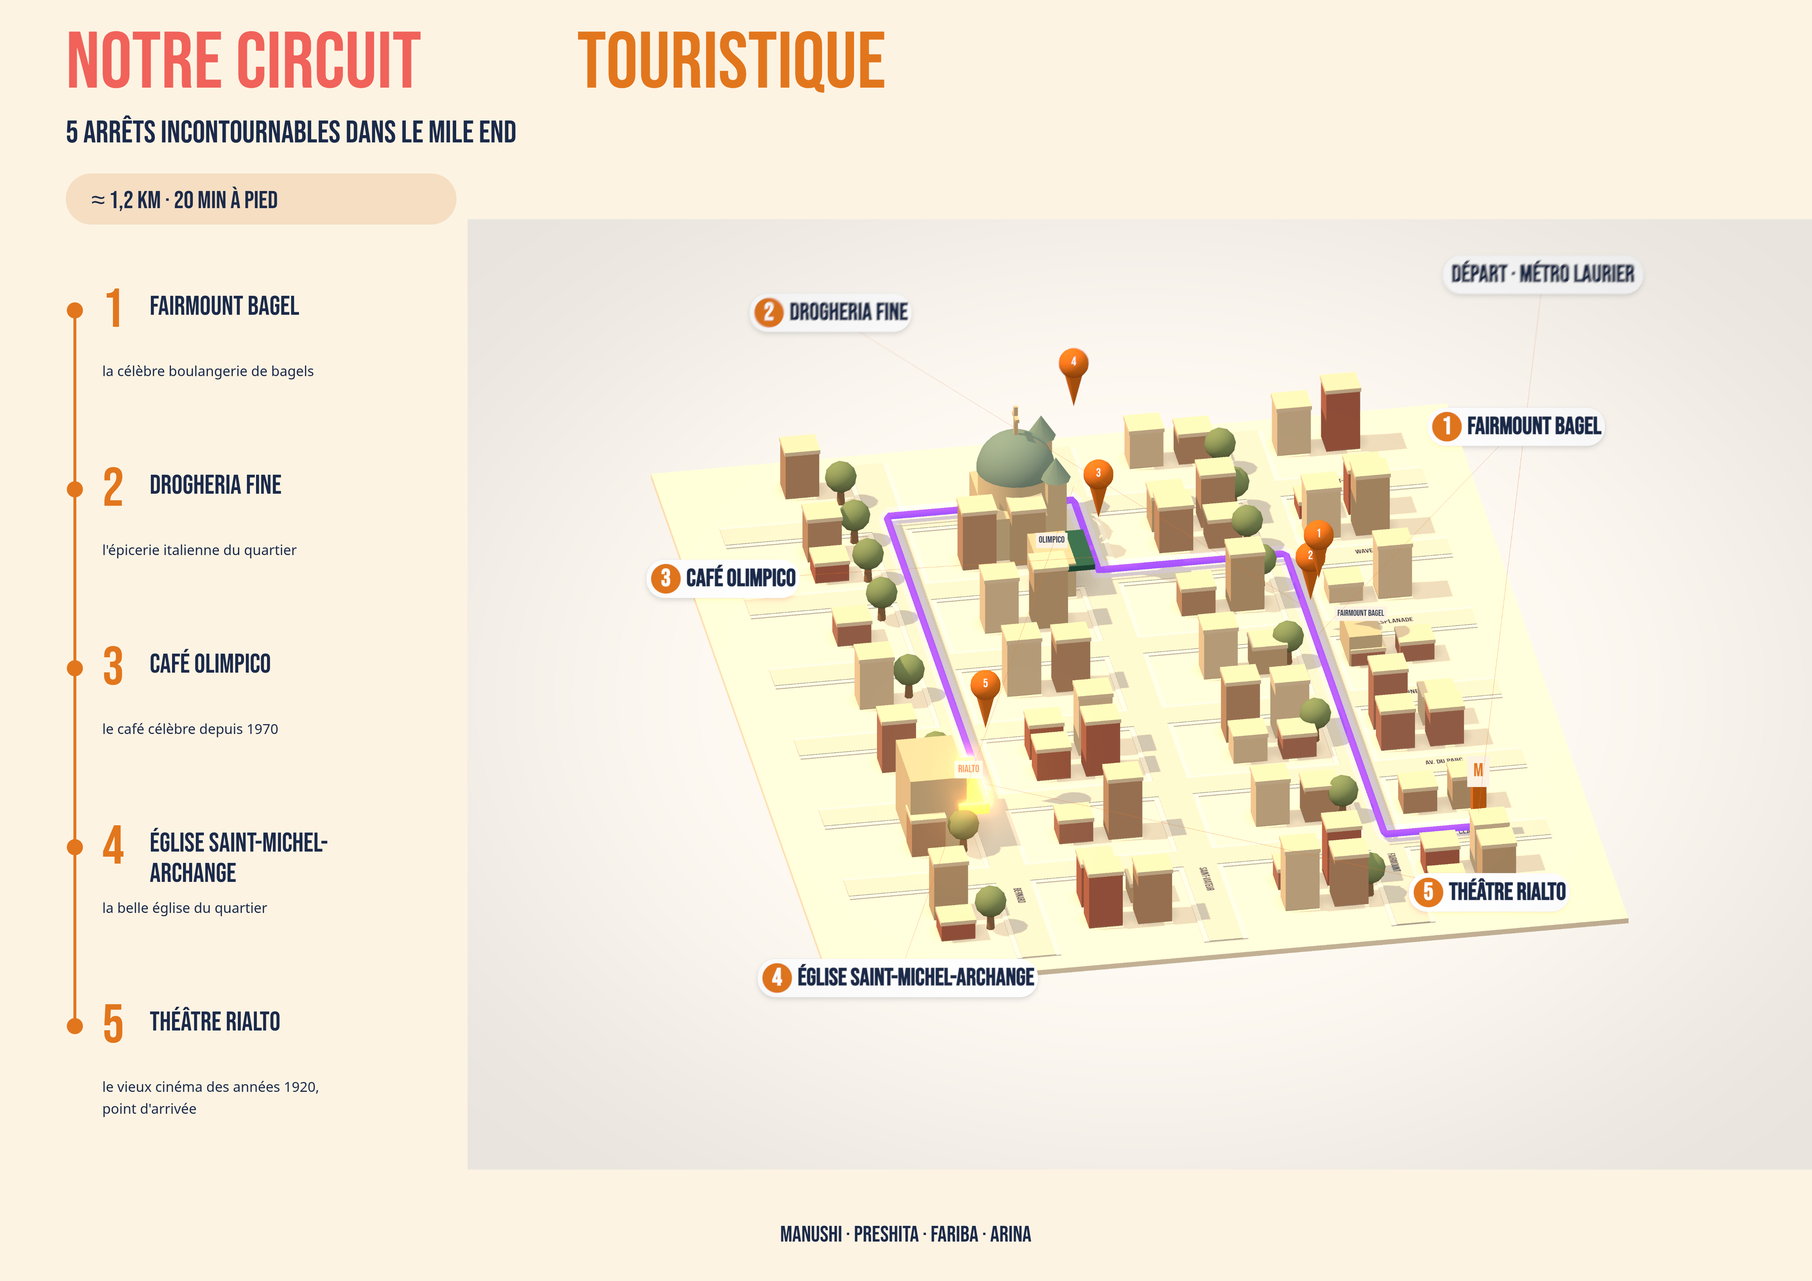
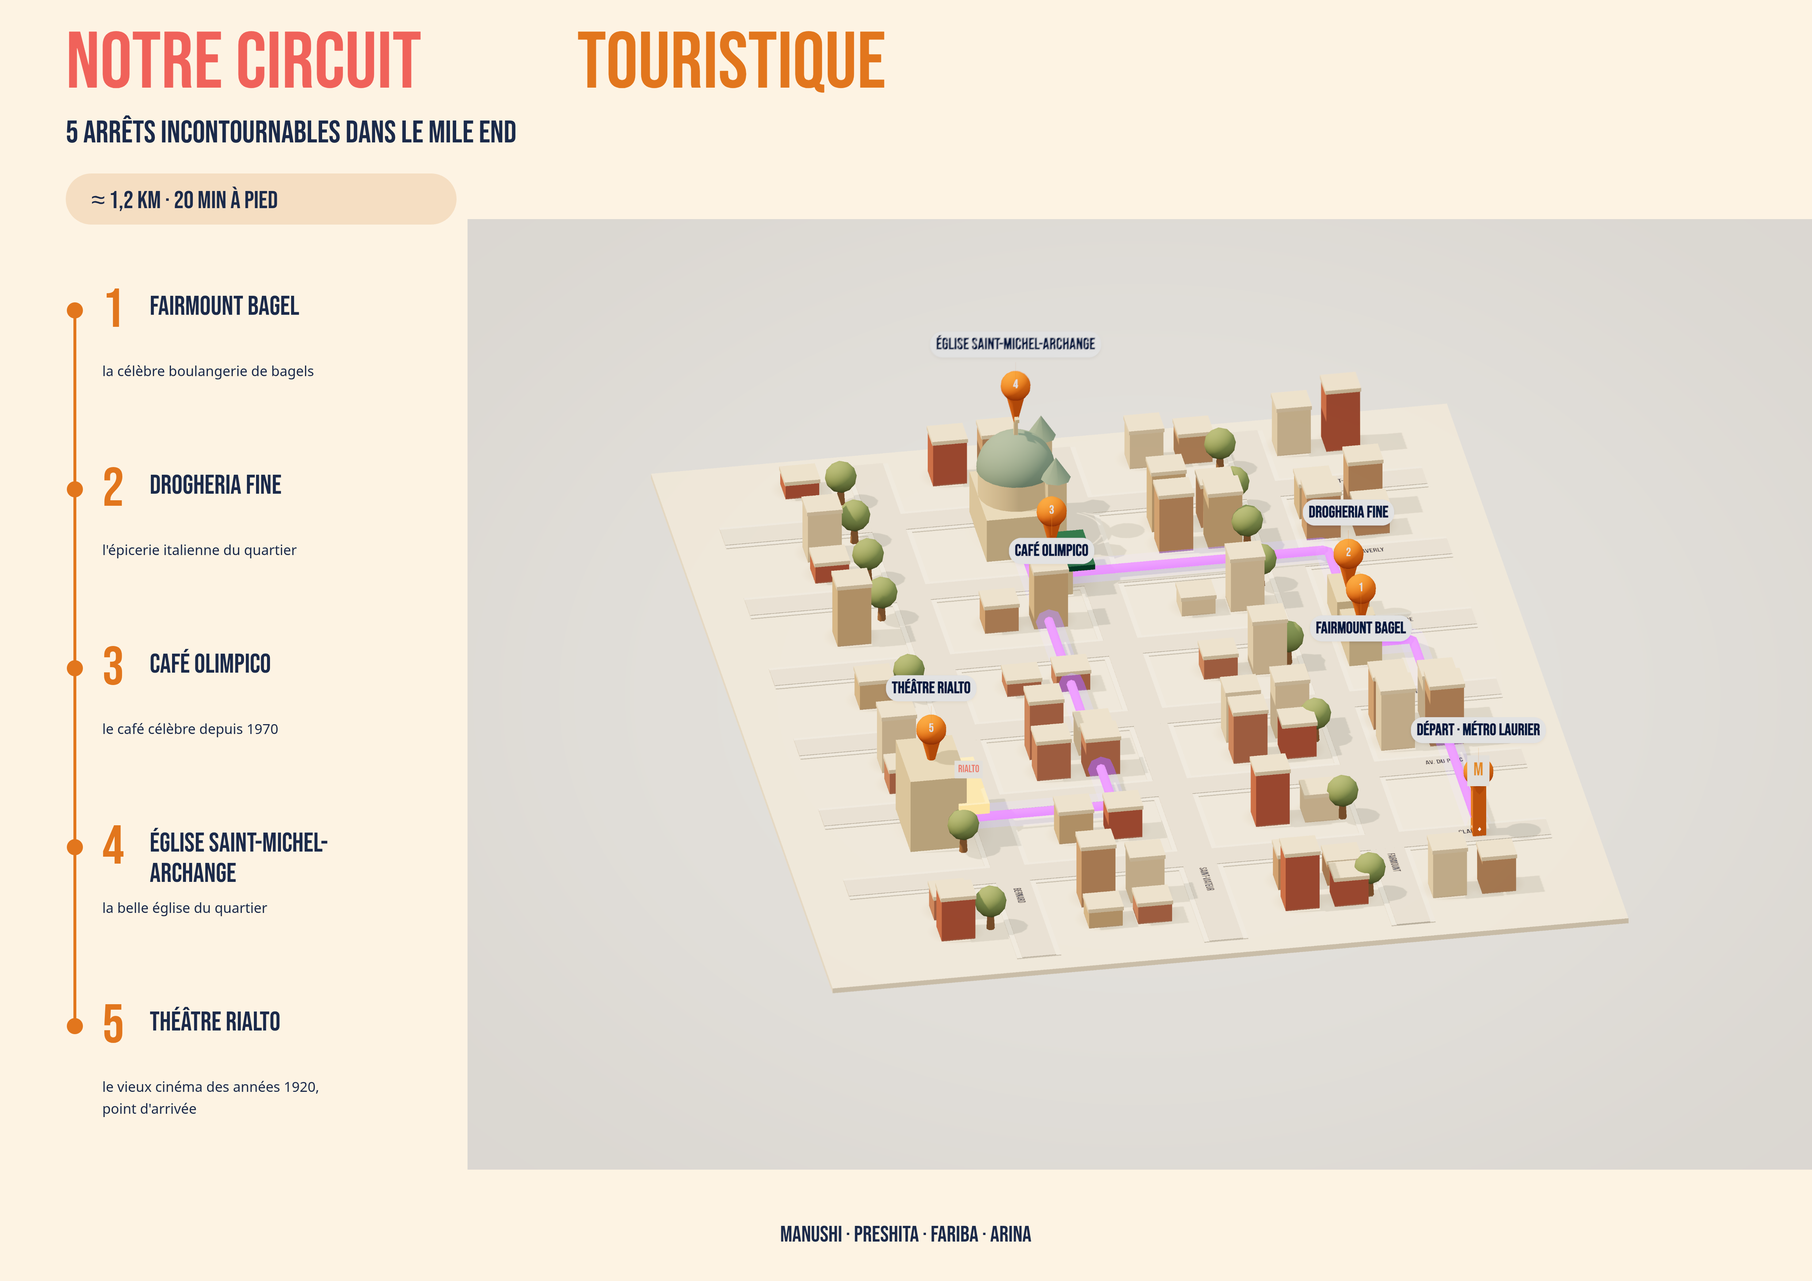
Mile End v3: snap reels layout, 3D food, 3D route map, team photo (Codex)

Changed region(s): [[0.3124, 0.2175, 0.9373, 0.87], [0.7811, 0.1864, 0.9061, 0.2486]]

diff --git a/map3d.js b/map3d.js
@@ -7,12 +7,24 @@ import { UnrealBloomPass } from 'https://cdn.jsdelivr.net/npm/three@0.170.0/exam
 import { ShaderPass } from 'https://cdn.jsdelivr.net/npm/three@0.170.0/examples/jsm/postprocessing/ShaderPass.js';
 import { OutputPass } from 'https://cdn.jsdelivr.net/npm/three@0.170.0/examples/jsm/postprocessing/OutputPass.js';
 
+// Route order and district-local landmark positions are shared by every representation.
+export const STOPS = [
+  { id: 'metro', number: 'M', name: 'DÉPART · MÉTRO LAURIER', position: [7, -6], pinHeight: 1.5 },
+  { id: 'fairmount', number: '1', name: 'FAIRMOUNT BAGEL', position: [-1, -4.9], pinHeight: 1.5, description: 'la célèbre boulangerie de bagels' },
+  { id: 'drogheria', number: '2', name: 'DROGHERIA FINE', position: [-2.5, -4.9], pinHeight: 1.5, description: "l'épicerie italienne du quartier" },
+  { id: 'olimpico', number: '3', name: 'CAFÉ OLIMPICO', position: [-5, 1], pinHeight: 1.7, description: 'le café célèbre depuis 1970' },
+  { id: 'church', number: '4', name: 'ÉGLISE SAINT-MICHEL-ARCHANGE', position: [-7.1, 1.4], pinHeight: 3.6, description: 'la belle église du quartier' },
+  { id: 'rialto', number: '5', name: 'THÉÂTRE RIALTO', position: [4.8, 5.3], pinHeight: 2.4, description: 'le vieux cinéma des années 1920,', extra: "point d'arrivée" }
+];
+
 export function mountMap3D(container, { interactive = true, width = container.clientWidth || 640, height = 440, pixelRatio = 1, preserveDrawingBuffer = false } = {}) {
   const renderer = new THREE.WebGLRenderer({ antialias: true, preserveDrawingBuffer });
   renderer.setPixelRatio(interactive ? Math.min(pixelRatio, 2) : 1);
   renderer.shadowMap.enabled = true; renderer.shadowMap.type = THREE.PCFSoftShadowMap;
   renderer.setSize(width, height);
   renderer.setClearColor('#fdf3e3');
+  renderer.toneMapping = THREE.ACESFilmicToneMapping;
+  renderer.toneMappingExposure = 1;
   renderer.domElement.setAttribute('role', 'img');
   renderer.domElement.setAttribute('aria-label', 'Circuit schématique du Mile End : station Laurier, Fairmount Bagel, Drogheria Fine, Café Olimpico, église Saint-Michel-Archange et Théâtre Rialto.');
   container.append(renderer.domElement);
@@ -25,10 +37,22 @@ export function mountMap3D(container, { interactive = true, width = container.cl
   sunlight.castShadow = true; sunlight.shadow.mapSize.setScalar(interactive ? 1024 : 4096);
   Object.assign(sunlight.shadow.camera, { left: -18, right: 18, top: 18, bottom: -18, near: .1, far: 70 });
   sunlight.shadow.bias = -.0005; sunlight.shadow.normalBias = .03;
+  // Only route objects are on layer 1; cream surfaces, pins and text never enter bloom.
+  const bloomComposer = new EffectComposer(renderer);
+  bloomComposer.renderToScreen = false;
+  const bloomScene = new RenderPass(scene, camera);
+  bloomScene.clearColor = new THREE.Color(0x000000);
+  bloomScene.clearAlpha = 0;
+  bloomComposer.addPass(bloomScene);
+  const bloom = new UnrealBloomPass(new THREE.Vector2(width, height), .65, .4, .9);
+  bloomComposer.addPass(bloom);
   const composer = new EffectComposer(renderer);
   composer.addPass(new RenderPass(scene, camera));
-  const bloom = new UnrealBloomPass(new THREE.Vector2(width, height), .85, .8, 1.5);
-  composer.addPass(bloom);
+  composer.addPass(new ShaderPass({
+    uniforms: { tDiffuse: { value: null }, bloomTexture: { value: bloomComposer.renderTarget2.texture } },
+    vertexShader: `varying vec2 vUv; void main(){vUv=uv;gl_Position=projectionMatrix*modelViewMatrix*vec4(position,1.);}`,
+    fragmentShader: `uniform sampler2D tDiffuse; uniform sampler2D bloomTexture; varying vec2 vUv; void main(){vec4 base=texture2D(tDiffuse,vUv);gl_FragColor=vec4(base.rgb+texture2D(bloomTexture,vUv).rgb,base.a);}`
+  }));
   const finish = new ShaderPass({ uniforms: { tDiffuse: { value: null }, texel: { value: new THREE.Vector2(1 / width, 1 / height) } }, vertexShader: `varying vec2 vUv; void main(){vUv=uv;gl_Position=projectionMatrix*modelViewMatrix*vec4(position,1.);}`, fragmentShader: `uniform sampler2D tDiffuse; uniform vec2 texel; varying vec2 vUv; void main(){float edge=smoothstep(.24,.5,abs(vUv.y-.5));vec4 c=texture2D(tDiffuse,vUv)*.4;for(int i=1;i<=3;i++){vec2 d=texel*float(i)*edge*2.;c+=(texture2D(tDiffuse,vUv+d)+texture2D(tDiffuse,vUv-d))*.1;}float vignette=1.-.18*smoothstep(.25,.7,length(vUv-.5));gl_FragColor=vec4(c.rgb*vignette,c.a);}` });
   composer.addPass(finish); composer.addPass(new OutputPass());
   if (interactive) bloom.setSize(width * renderer.getPixelRatio() / 2, height * renderer.getPixelRatio() / 2);
@@ -68,40 +92,53 @@ export function mountMap3D(container, { interactive = true, width = container.cl
   for (let x = -9.7; x < 10; x += .9) {
     for (let z = -6; z < 6.5; z += 1.05) {
       if (crosses.some(v => Math.abs(x - v) < .8) || avenues.some(v => Math.abs(z - v) < .85)) continue;
-      // Reserve space for the church and the theatre.
-      if ((Math.abs(x + 8) < 1.8 && Math.abs(z - 1.4) < 1.6) || (Math.abs(x - 4) < 1.6 && Math.abs(z - 5.4) < 1.3)) continue;
+      if (STOPS.some(({position: [sx, sz]}) => Math.abs(x - sx) < 1.5 && Math.abs(z - sz) < 1.4)) continue;
       const h = .3 + random() * 1.1;
       box(.65, h, .72, bricks[Math.floor(random() * bricks.length)], x, h / 2, z);
       box(.69, .09, .76, mat('#efddc3'), x, h + .045, z);
     }
   }
-  // Byzantine church: drum, hemisphere and twin towers.
-  box(2.1, 1, 1.6, stone, -7.1, .5, 1.4);
-  mesh(new THREE.CylinderGeometry(.8, .8, .6, 24), stone, -7.1, 1.3, 1.4);
-  mesh(new THREE.SphereGeometry(.83, 24, 12, 0, Math.PI * 2, 0, Math.PI / 2), dome, -7.1, 1.6, 1.4);
-  [-8, -6.2].forEach(x => {
-    box(.4, 1.8, .4, stone, x, .9, .7);
-    mesh(new THREE.ConeGeometry(.32, .5, 8), dome, x, 2.05, .7);
+  // Build landmark geometry relative to its stop, never a second world position.
+  STOPS.forEach(stop => {
+    const first = district.children.length;
+    if (stop.id === 'church') {
+      box(2.1, 1, 1.6, stone, 0, .5, 0);
+      mesh(new THREE.CylinderGeometry(.8, .8, .6, 24), stone, 0, 1.3, 0);
+      mesh(new THREE.SphereGeometry(.83, 24, 12, 0, Math.PI * 2, 0, Math.PI / 2), dome, 0, 1.6, 0);
+      [-.9, .9].forEach(x => {
+        box(.4, 1.8, .4, stone, x, .9, -.7);
+        mesh(new THREE.ConeGeometry(.32, .5, 8), dome, x, 2.05, -.7);
+      });
+      box(.08, .7, .08, stone, 0, 2.75, 0); box(.42, .08, .08, stone, 0, 2.85, 0);
+    } else if (stop.id === 'rialto') {
+      box(1.8, 1.7, 1.2, stone, 0, .85, 0);
+      box(2, .24, .65, new THREE.MeshStandardMaterial({color:'#ffcf7c',emissive:'#ff982c',emissiveIntensity:2}), 0, .95, -.75);
+      label('RIALTO', 0, 1.35, -.8, .37, '#f0625a', true);
+    } else if (stop.id === 'metro') {
+      box(.28, 1.3, .28, orange, 0, .65, 0);
+    } else {
+      box(1.2, .7, .7, stone, 0, .35, 0);
+      if (stop.id === 'olimpico') box(1.5, .12, .6, mat('#28614f'), 0, .7, -.5);
+    }
+    district.children.slice(first).forEach(object => {
+      object.position.x += stop.position[0]; object.position.z += stop.position[1];
+    });
   });
-  box(.08, .7, .08, stone, -7.1, 2.75, 1.4); box(.42, .08, .08, stone, -7.1, 2.85, 1.4);
-  box(1.8, 1.7, 1.2, stone, 4.8, .85, 5.3);
-  box(2, .24, .65, new THREE.MeshStandardMaterial({color:'#ffcf7c',emissive:'#ff982c',emissiveIntensity:2}), 4.8, .95, 4.55);
-  label('RIALTO', 4.8, 1.35, 4.5, .37, '#f0625a', true);
-  const points = [[7,-6],[7,-4],[-1,-4],[-2,-4],[-5,-4],[-5,0],[-8,0],[-8,4],[4,4]];
+  // Each leg reaches the next landmark, with an orthogonal bend derived from its endpoints.
+  const points = [STOPS[0].position];
+  STOPS.slice(1).forEach((stop, i) => {
+    const previous = STOPS[i].position;
+    if (previous[0] !== stop.position[0] && previous[1] !== stop.position[1]) points.push([stop.position[0], previous[1]]);
+    points.push(stop.position);
+  });
   const curve = new THREE.CurvePath();
   points.slice(1).forEach(([x,z], i) => curve.add(new THREE.LineCurve3(new THREE.Vector3(points[i][0], .18, points[i][1]), new THREE.Vector3(x, .18, z))));
-  const purple = new THREE.MeshStandardMaterial({ color: '#5b2cff', emissive: '#5b2cff', emissiveIntensity: 3 });
-  mesh(new THREE.TubeGeometry(curve, 300, .075, 8, false), purple, 0, 0, 0);
-  mesh(new THREE.TubeGeometry(curve, 300, .19, 8, false), new THREE.MeshBasicMaterial({ color: '#5b2cff', transparent: true, opacity: .17, blending: THREE.AdditiveBlending, depthWrite: false }), 0, 0, 0);
-  const pulse = mesh(new THREE.SphereGeometry(.15, 12, 8), new THREE.MeshBasicMaterial({ color: '#fff1ff' }), 0, 0, 0);
-  const stops = [
-    [-1,-4,'1','FAIRMOUNT BAGEL',2.9], [-2,-4,'2','DROGHERIA FINE',1.8],
-    [-5,0,'3','CAFÉ OLIMPICO',2.5], [-8,0,'4','ÉGLISE SAINT-MICHEL-ARCHANGE',3.5],
-    [4,4,'5','THÉÂTRE RIALTO',2.9]
-  ];
-  // Camera-space callouts keep close neighbours on opposite sides and every card readable.
+  const purple = new THREE.MeshStandardMaterial({ color: '#5b2cff', emissive: '#5b2cff', emissiveIntensity: 5 });
+  mesh(new THREE.TubeGeometry(curve, 300, .10, 8, false), purple, 0, 0, 0).layers.enable(1);
+  mesh(new THREE.TubeGeometry(curve, 300, .28, 8, false), new THREE.MeshBasicMaterial({ color: '#5b2cff', transparent: true, opacity: .3, blending: THREE.AdditiveBlending, depthWrite: false }), 0, 0, 0).layers.enable(1);
+  const pulse = mesh(new THREE.SphereGeometry(.15, 12, 8), new THREE.MeshBasicMaterial({ color: new THREE.Color('#fff1ff').multiplyScalar(3) }), 0, 0, 0);
+  pulse.layers.enable(1);
   const callouts = [];
-  const slots = [[.78,.78],[.27,.90],[.19,.62],[.32,.20],[.76,.29],[.80,.94]];
   function card(text, number) {
     const canvas = document.createElement('canvas'), ctx = canvas.getContext('2d');
     ctx.font = 'bold 64px "Bebas Neue", Impact, sans-serif';
@@ -115,20 +152,17 @@ export function mountMap3D(container, { interactive = true, width = container.cl
     const sprite = new THREE.Sprite(new THREE.SpriteMaterial({map:texture,depthTest:false,depthWrite:false})); sprite.renderOrder=10; scene.add(sprite);
     return {sprite, ratio:canvas.width/canvas.height};
   }
-  function callout(x,z,text,number,slot) {
-    const {sprite,ratio}=card(text,number);
-    const line=new THREE.Line(new THREE.BufferGeometry().setFromPoints([new THREE.Vector3(),new THREE.Vector3()]),new THREE.LineBasicMaterial({color:'#e2761d',depthTest:false,transparent:true,opacity:.8})); line.renderOrder=9; scene.add(line);
-    callouts.push({sprite,ratio,line,anchor:new THREE.Vector3(x,.5,z),slot});
-  }
-  stops.forEach(([x,z,n,name,h],i) => {
+  STOPS.forEach(stop => {
+    const [x, z] = stop.position, h = stop.pinHeight;
     const pin = mesh(new THREE.ConeGeometry(.22,.9,12),orange,x,h-.6,z); pin.rotation.z=Math.PI;
-    mesh(new THREE.SphereGeometry(.32,16,12),orange,x,h,z); label(n,x,h+.02,z,.43,'#ffffff');
-    callout(x,z,name,n,slots[i]);
+    mesh(new THREE.SphereGeometry(.32,16,12),orange,x,h,z);
+    label(stop.number,x,h+.02,z,stop.id === 'metro' ? .65 : .43,stop.id === 'metro' ? '#e2761d' : '#ffffff',stop.id === 'metro');
+    // Numbers appear once on the map, on their own pins.
+    const {sprite,ratio} = card(stop.name, null);
+    const line = new THREE.Line(new THREE.BufferGeometry().setFromPoints([new THREE.Vector3(),new THREE.Vector3()]),new THREE.LineBasicMaterial({color:'#e2761d',depthTest:false,transparent:true,opacity:.8}));
+    line.renderOrder=9; scene.add(line);
+    callouts.push({stop,sprite,ratio,line,anchor:new THREE.Vector3(x,h,z)});
   });
-  box(.28,1.3,.28,orange,7,.65,-6); label('M',7,1.5,-6,.65,'#e2761d',true);
-  callout(7,-6,'DÉPART · MÉTRO LAURIER',null,slots[5]);
-  box(1.2,.7,.7,stone,-1,.35,-4.9); label('FAIRMOUNT BAGEL',-1,.9,-4.9,.30,'#1b2a4a',true);
-  box(1.4,.8,.8,stone,-5,.4,1); box(1.5,.12,.6,mat('#28614f'),-5,.7,.5); label('OLIMPICO',-5,1,1,.32,'#1b2a4a',true);
   const foliage=mat('#829767'), trunk=mat('#927052');
   for(let i=0;i<24;i++){const x=-9+(i%12)*1.65,z=i<12 ? -3.3 : 4.8;if(crosses.some(v=>Math.abs(x-v)<.6))continue;mesh(new THREE.CylinderGeometry(.06,.09,.5,6),trunk,x,.25,z);mesh(new THREE.IcosahedronGeometry(.34,1),foliage,x,.65,z);}
   // Transparent radial footprints give buildings soft contact shadows.
@@ -154,15 +188,58 @@ export function mountMap3D(container, { interactive = true, width = container.cl
     if (disposed) return;
     pulse.position.copy(curve.getPoint((time * .00008) % 1));
     scene.updateMatrixWorld(true); camera.updateMatrixWorld(true);
-    const cardHeight=(camera.top-camera.bottom)/camera.zoom*.052;
-    callouts.forEach(({sprite,ratio,line,anchor,slot})=>{
-      const h=Math.min(cardHeight, (camera.right-camera.left)/camera.zoom*.82/ratio);
-      const halfWidth=h*ratio/((camera.right-camera.left)/camera.zoom)/2;
-      const screenX=THREE.MathUtils.clamp(slot[0], halfWidth+.025, 1-halfWidth-.025);
-      sprite.position.set(screenX*2-1,slot[1]*2-1,0).unproject(camera);
-      sprite.scale.set(h*ratio,h,1);
-      line.geometry.setFromPoints([district.localToWorld(anchor.clone()),sprite.position]);
+    const viewWidth = (camera.right-camera.left)/camera.zoom;
+    const viewHeight = (camera.top-camera.bottom)/camera.zoom;
+    const occupied = [], projectedStops = [];
+    callouts.forEach(({stop,sprite,ratio,line,anchor}) => {
+      const worldAnchor = district.localToWorld(anchor.clone());
+      const projected = worldAnchor.clone().project(camera);
+      const px = (projected.x+1)*width/2, py = (1-projected.y)*height/2;
+      const h = Math.min(height*.035, width*.29/ratio), w = h*ratio;
+      const gap = Math.min(width,height)*.025;
+      // Try nearby card edges; all candidates keep the leader within 12% of the frame.
+      const candidates = [];
+      for (const distance of [gap, gap*2, gap*3]) {
+        for (const [dx,dy] of [[0,-h/2-distance],[0,h/2+distance],[-w/2-distance,0],[w/2+distance,0]]) {
+          for (const nudge of [0,-h,h]) {
+            const cx = THREE.MathUtils.clamp(px+dx+(dx===0 ? nudge : 0),w/2+8,width-w/2-8);
+            const cy = THREE.MathUtils.clamp(py+dy+(dx!==0 ? nudge : 0),h/2+8,height-h/2-8);
+            const edgeX = THREE.MathUtils.clamp(px,cx-w/2,cx+w/2);
+            const edgeY = THREE.MathUtils.clamp(py,cy-h/2,cy+h/2);
+            const length = Math.hypot(edgeX-px,edgeY-py);
+            if (length > Math.min(width,height)*.12) continue;
+            const overlap = occupied.reduce((sum,r) => sum + Math.max(0,Math.min(cx+w/2,r.right)-Math.max(cx-w/2,r.left)+8)*Math.max(0,Math.min(cy+h/2,r.bottom)-Math.max(cy-h/2,r.top)+8),0);
+            const pinOverlap = callouts.reduce((sum,other) => {
+              const q = district.localToWorld(other.anchor.clone()).project(camera);
+              const x = (q.x+1)*width/2, y = (1-q.y)*height/2;
+              return sum + (Math.abs(cx-x)<w/2+height*.018 && Math.abs(cy-y)<h/2+height*.018 ? 1 : 0);
+            },0);
+            candidates.push({cx,cy,edgeX,edgeY,length,score:overlap*100+pinOverlap*width*height+length});
+          }
+        }
+      }
+      // A zoomed or rotated anchor can leave no short leader candidate. Keep its label.
+      const fallbackX = THREE.MathUtils.clamp(px, w/2+8, width-w/2-8);
+      const fallbackY = THREE.MathUtils.clamp(py-h/2-gap, h/2+8, height-h/2-8);
+      const fallbackEdgeX = THREE.MathUtils.clamp(px, fallbackX-w/2, fallbackX+w/2);
+      const fallbackEdgeY = THREE.MathUtils.clamp(py, fallbackY-h/2, fallbackY+h/2);
+      const best = candidates.sort((a,b)=>a.score-b.score)[0] ?? {
+        cx: fallbackX, cy: fallbackY, edgeX: fallbackEdgeX, edgeY: fallbackEdgeY,
+        length: Math.hypot(fallbackEdgeX-px, fallbackEdgeY-py)
+      };
+      const {cx,cy,edgeX,edgeY,length} = best;
+      occupied.push({left:cx-w/2,right:cx+w/2,top:cy-h/2,bottom:cy+h/2});
+      sprite.position.set(cx/width*2-1,1-cy/height*2,projected.z).unproject(camera);
+      sprite.scale.set(w/width*viewWidth,h/height*viewHeight,1);
+      const edge = new THREE.Vector3(edgeX/width*2-1,1-edgeY/height*2,projected.z).unproject(camera);
+      line.geometry.setFromPoints([worldAnchor,edge]);
+      projectedStops.push({number:stop.number,name:stop.name,pin:[px,py],label:[cx,cy],leaderFraction:length/Math.min(width,height)});
     });
+    renderer.domElement.projectedStops = projectedStops;
+    const cameraLayers = camera.layers.mask;
+    camera.layers.set(1);
+    try { bloomComposer.render(); }
+    finally { camera.layers.mask = cameraLayers; }
     composer.render();
   }
   function render(time = 0) { draw(time); }
@@ -177,7 +254,9 @@ export function mountMap3D(container, { interactive = true, width = container.cl
       if (object.material) for (const material of [object.material].flat()) { materials.add(material); if (material.map) textures.add(material.map); }
     });
     geometries.forEach(g => g.dispose()); materials.forEach(m => m.dispose()); textures.forEach(t => t.dispose());
-    composer.passes.forEach(pass => pass.dispose?.()); composer.dispose();
+    for (const pipeline of [bloomComposer, composer]) {
+      pipeline.passes.forEach(pass => pass.dispose?.()); pipeline.dispose();
+    }
     renderer.dispose(); renderer.domElement.remove();
   } };
 }

diff --git a/map-render.html b/map-render.html
@@ -10,13 +10,16 @@
 </head>
 <body><div id="map"></div><canvas id="output" width="4961" height="3508" aria-label="Notre circuit touristique du Mile End"></canvas>
 <script type="module">
-import { mountMap3D } from './map3d.js';
+import { mountMap3D, STOPS } from './map3d.js';
 window.__done = false;
 try {
   await document.fonts.load('100px "Bebas Neue"');
   await document.fonts.ready;
   const map = mountMap3D(document.querySelector('#map'), { interactive: false, width: 4961, height: 3508, pixelRatio: 1, preserveDrawingBuffer: true });
   map.render();
+  if (map.renderer.domElement.projectedStops.length !== STOPS.length) throw new Error('Incomplete stop labels');
+  console.table(map.renderer.domElement.projectedStops);
+  window.__projectedStops = map.renderer.domElement.projectedStops;
   const canvas = document.querySelector('#output'), ctx = canvas.getContext('2d');
   ctx.fillStyle = '#fdf3e3'; ctx.fillRect(0, 0, 4961, 3508);
   // The scene itself is rendered at full export resolution before compositing.
@@ -29,20 +32,15 @@ try {
   ctx.fillStyle = '#f5dec2'; ctx.beginPath(); ctx.roundRect(180, 475, 1070, 140, 70); ctx.fill();
   ctx.fillStyle = '#1b2a4a'; ctx.font = '68px "Bebas Neue", Impact, sans-serif';
   ctx.fillText('≈ 1,2 km · 20 min à pied', 250, 570);
-  const stops = [
-    ['FAIRMOUNT BAGEL', 'la célèbre boulangerie de bagels'],
-    ['DROGHERIA FINE', "l'épicerie italienne du quartier"],
-    ['CAFÉ OLIMPICO', 'le café célèbre depuis 1970'],
-    ['ÉGLISE SAINT-MICHEL-', 'la belle église du quartier', 'ARCHANGE'],
-    ['THÉÂTRE RIALTO', "le vieux cinéma des années 1920,", "point d'arrivée"]
-  ];
+  const stops = STOPS.filter(stop => stop.id !== 'metro');
   ctx.strokeStyle = '#e2761d'; ctx.lineWidth = 8; ctx.beginPath(); ctx.moveTo(205, 850); ctx.lineTo(205, 2810); ctx.stroke();
-  stops.forEach(([name, description, extra], i) => {
+  stops.forEach(({name, number, description, extra}, i) => {
+    const displayName = i === 3 ? 'ÉGLISE SAINT-MICHEL-' : name;
     const y = 850 + i * 490;
     ctx.fillStyle = '#e2761d'; ctx.beginPath(); ctx.arc(205, y, 22, 0, Math.PI*2); ctx.fill();
-    ctx.font = '150px "Bebas Neue", Impact, sans-serif'; ctx.fillText(String(i+1), 280, y+45);
-    ctx.fillStyle = '#1b2a4a'; ctx.font = '74px "Bebas Neue", Impact, sans-serif'; ctx.fillText(name, 410, y+12);
-    if(i===3) ctx.fillText(extra, 410, y+95);
+    ctx.font = '150px "Bebas Neue", Impact, sans-serif'; ctx.fillText(number, 280, y+45);
+    ctx.fillStyle = '#1b2a4a'; ctx.font = '74px "Bebas Neue", Impact, sans-serif'; ctx.fillText(displayName, 410, y+12);
+    if(i===3) ctx.fillText('ARCHANGE', 410, y+95);
     ctx.font = '38px system-ui, sans-serif'; ctx.fillText(description, 280, y+180);
     if(i===4) ctx.fillText(extra, 280, y+240);
   });
